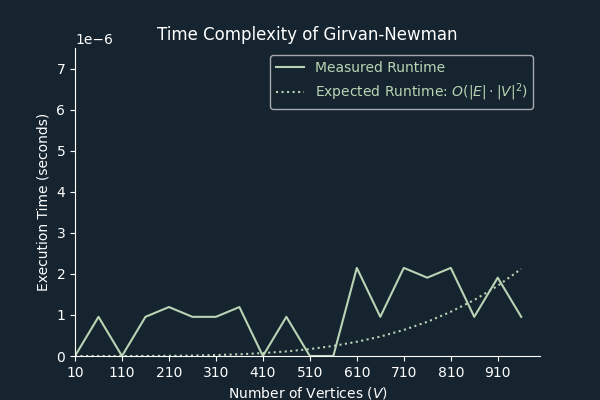
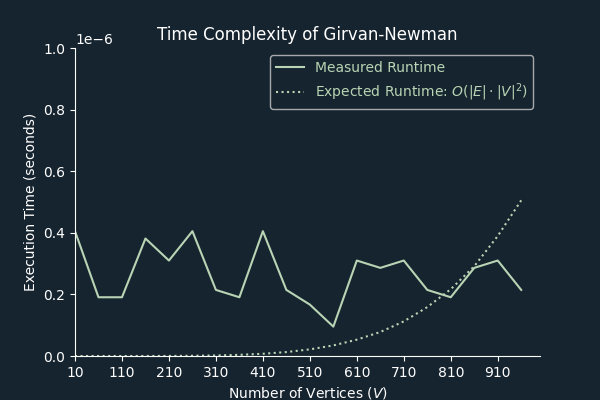
Fixed Girvan-Newman runtime equation (reversed E and V)

diff --git a/src/algorithms/test_girvan_newman.py b/src/algorithms/test_girvan_newman.py
@@ -36,16 +36,19 @@ class TestGirvanNewmanRuntime(unittest.TestCase):
             G = randG().nodes(n).random_edges(0.5).build()
             num_edges = len(G.edges())
 
-            start_time = time.time()
-            girvan_newman(G)
-            runtimes.append(time.time() - start_time)
+            avg_runtimes = []
+            for _ in range(10):
+                start_time = time.time()
+                girvan_newman(G)
+                avg_runtimes.append(time.time() - start_time)
+            runtimes.append(sum(avg_runtimes) / len(avg_runtimes))
 
-            # Girvan-Newman should have a runtime of EV**2 for unweighted graphs
-            expected_runtime = (num_edges * n**2) / 1e17
+            # Girvan-Newman should have a runtime of VE**2 for unweighted graphs
+            expected_runtime = (n * num_edges**2) / 1e20
             expected_times.append(expected_runtime)
 
         for actual, expected in zip(runtimes, expected_times):
-            self.assertLess(expected - actual, TOL + 1e1000)
+            self.assertLess(expected - actual, TOL)
 
         plt.figure(figsize=(6, 4), facecolor="#16242f")
         ax = plt.axes()
@@ -70,7 +73,7 @@ class TestGirvanNewmanRuntime(unittest.TestCase):
         plt.title(f"Time Complexity of Girvan-Newman", color="white")
         plt.legend(facecolor="#16242f", labelcolor='linecolor')
         plt.xlim(10, 1000)
-        plt.ylim(0, 0.75e-5)
+        plt.ylim(0, 0.1e-5)
         plt.xticks(node_counts[::2])
         plt.savefig(f"src/algorithms/girvan_newman_time_complexity.png")
         plt.show()
